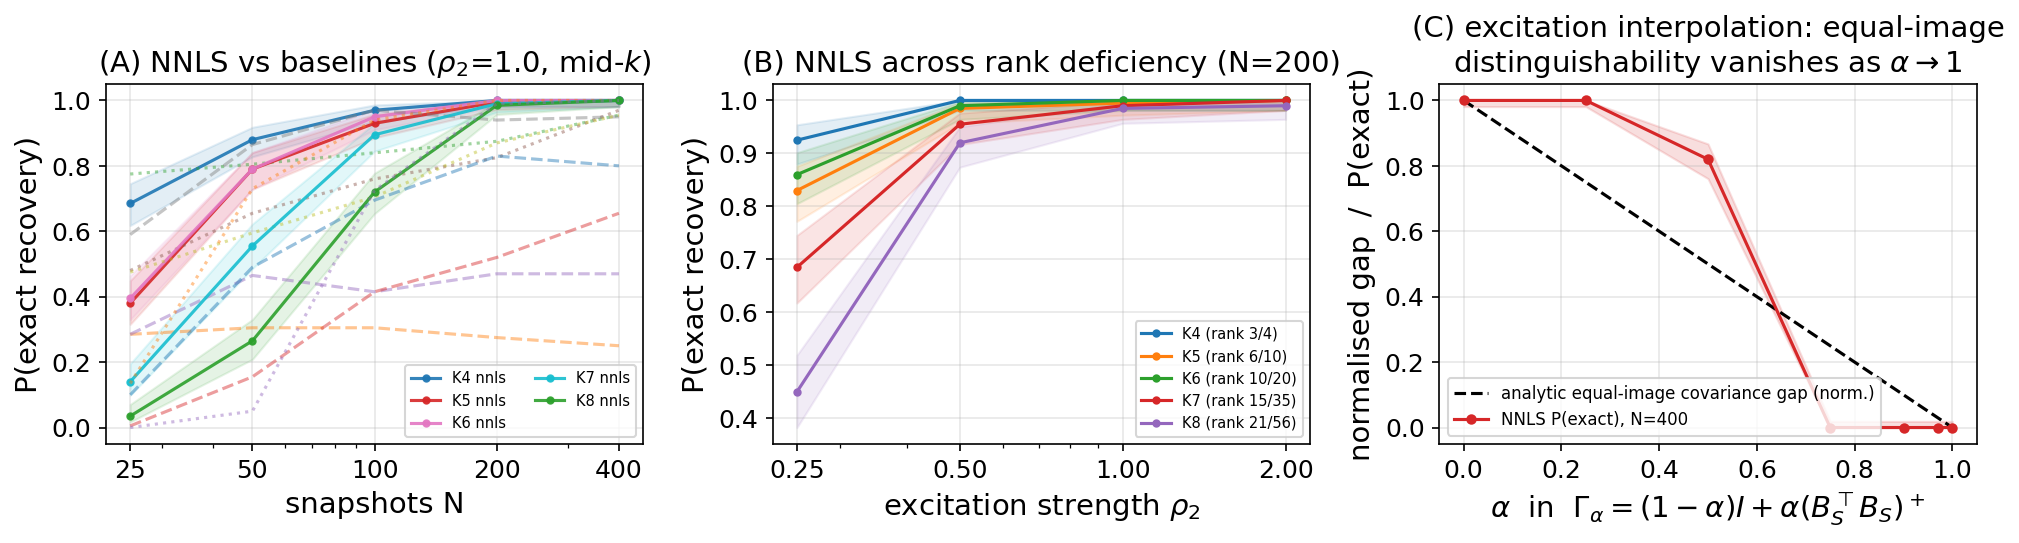
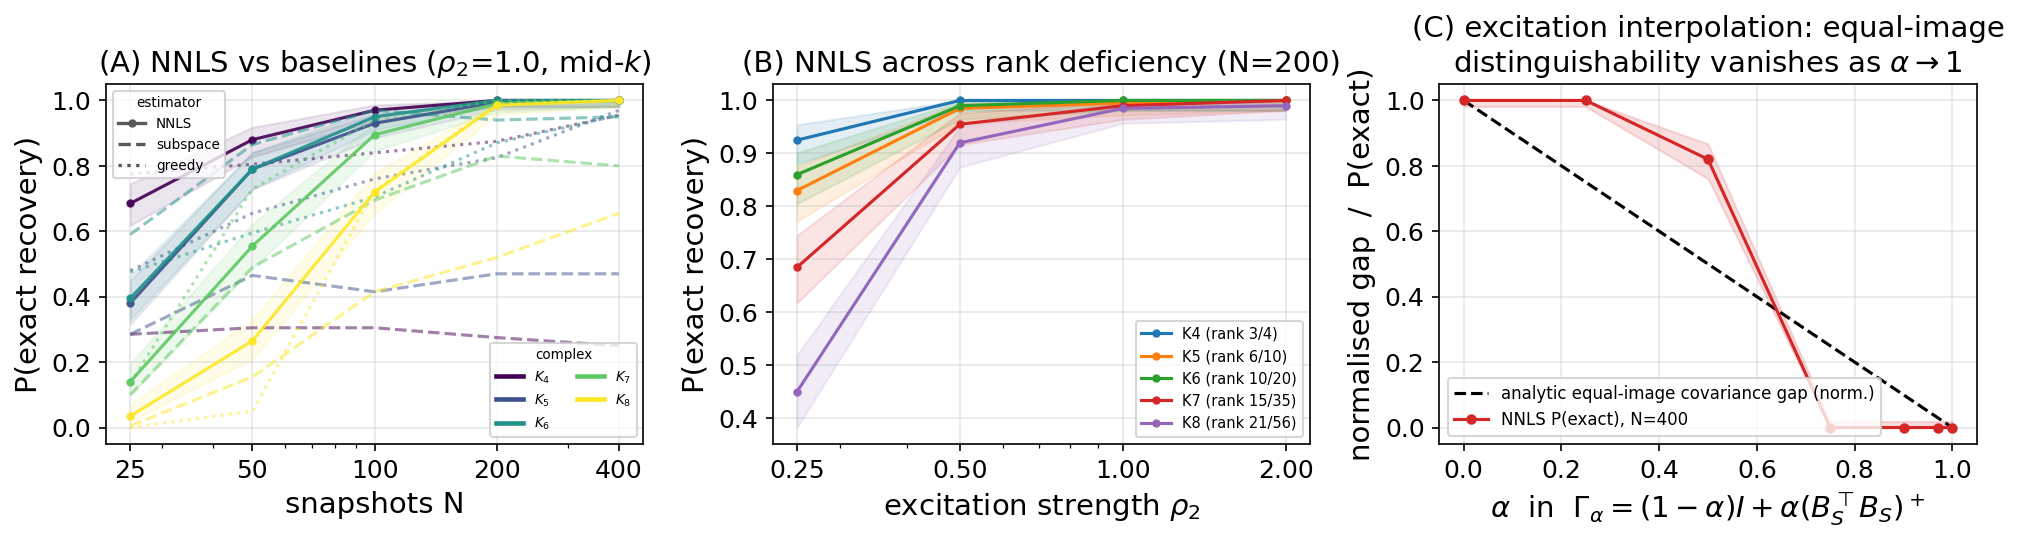
Round-8 Phase 6 / Round-7 H: CI, [gpu] extra, Fig1 dual legend, test-count + overclaim fixes
Infra:
- .github/workflows/ci.yml: CPU-only, torch-free CI (Python 3.11/3.12) —
  asserts the core imports without torch, compile-checks every src/experiment
  file, runs pytest -q. Guardrails, not proofs (stated in the workflow).
- pyproject.toml: [gpu] optional extra (torch, psutil); CPU core stays
  torch-free. requirements.lock records the server GPU stack
  (torch==2.8.0+cu128, RTX 4080 SUPER, driver 595.71.05).

Figures/wording:
- Fig1 (second_order.png) Panel A: proper DUAL legend — color = complex K_n
  (viridis), linestyle = estimator (NNLS/subspace/greedy). Was auto-cycling
  color with only NNLS labeled. Replotted from the committed JSON (no
  recompute).
- Test count 52 -> 58 in main.tex, supplement.tex, README.md.
- Softened two "every claim" overstatements in the supplement test-coverage
  paragraphs to "the enumerated claims" / "the core claims".

Both PDFs rebuilt (main 5pp, supplement 13pp, 0 undefined refs, no material
overfull). Manifest regenerated.

diff --git a/experiments/run_second_order.py b/experiments/run_second_order.py
@@ -236,6 +236,12 @@ def _plot(grid: dict, alpha: dict) -> None:
     N_fix = 200 if 200 in avail_N else avail_N[-1]
     rho_fix = 1.0 if 1.0 in avail_r else avail_r[-1]
 
+    import matplotlib.lines as mlines
+    # DUAL ENCODING: color = complex K_n, linestyle = estimator (so the legend
+    # factorizes cleanly instead of one entry per (K_n, estimator) pair).
+    kn_colors = {n: plt.cm.viridis((n - 4) / 4.0) for n in range(4, 9)}
+    est_styles = (("nnls", "-"), ("subspace", "--"), ("greedy", ":"))
+    est_names = {"nnls": "NNLS", "subspace": "subspace", "greedy": "greedy"}
     ax = axes[0]
     for n in range(4, 9):
         g = grid[f"K{n}"]
@@ -244,16 +250,16 @@ def _plot(grid: dict, alpha: dict) -> None:
                  and c["k"] == k_mid]
         cells.sort(key=lambda c: c["N"])
         Ns = [c["N"] for c in cells]
-        for est, ls in (("nnls", "-"), ("subspace", "--"), ("greedy", ":")):
+        col = kn_colors[n]
+        for est, ls in est_styles:
             y = [c[est]["p_exact"] for c in cells]
             lo = [c[est]["ci95"][0] for c in cells]
             hi = [c[est]["ci95"][1] for c in cells]
-            line, = ax.plot(Ns, y, ls, marker="o" if est == "nnls" else None,
-                            ms=3, label=f"K{n} {est}" if est == "nnls" else None,
-                            alpha=0.9 if est == "nnls" else 0.45)
+            ax.plot(Ns, y, ls, color=col,
+                    marker="o" if est == "nnls" else None, ms=3,
+                    alpha=0.9 if est == "nnls" else 0.5)
             if est == "nnls":
-                ax.fill_between(Ns, lo, hi, alpha=0.12,
-                                color=line.get_color())
+                ax.fill_between(Ns, lo, hi, alpha=0.10, color=col)
     ax.set_xscale("log")
     ax.set_xticks(avail_N)
     ax.xaxis.set_major_formatter(mticker.ScalarFormatter())
@@ -261,7 +267,16 @@ def _plot(grid: dict, alpha: dict) -> None:
     ax.set_xlabel("snapshots N")
     ax.set_ylabel("P(exact recovery)")
     ax.set_title(f"(A) NNLS vs baselines ($\\rho_2$={rho_fix}, mid-$k$)")
-    ax.legend(fontsize=7, ncol=2, loc="lower right")
+    color_handles = [mlines.Line2D([], [], color=kn_colors[n], lw=2.2,
+                                   label=f"$K_{n}$") for n in range(4, 9)]
+    style_handles = [mlines.Line2D([], [], color="0.35", ls=ls, lw=1.6,
+                                   marker="o" if est == "nnls" else None, ms=3,
+                                   label=est_names[est]) for est, ls in est_styles]
+    leg_color = ax.legend(handles=color_handles, fontsize=6.5, ncol=2,
+                          loc="lower right", title="complex", title_fontsize=6.5)
+    ax.add_artist(leg_color)
+    ax.legend(handles=style_handles, fontsize=6.5, loc="upper left",
+              title="estimator", title_fontsize=6.5)
     ax.grid(alpha=0.3)
 
     ax = axes[1]

diff --git a/paper/supplement.tex b/paper/supplement.tex
@@ -665,7 +665,7 @@ isolated-triangle exponent to $3\times10^{-5}$ relative at
 $\rho_2=10^{-5}$, and the Monte-Carlo error of the optimal test within the
 $e^{-NC_G}$ envelope with empirical exponent decreasing onto $C_G$; (vi)
 exact greedy covariance-atom recovery on rank-deficient $K_5$.
-\texttt{tests/test\_excitation.py} additionally checks every claim of the
+\texttt{tests/test\_excitation.py} additionally checks the core claims of the
 regime and estimator theory: weighted-diagonal identifiability and the
 $K_n$ unknown-noise ambiguity direction
 ($\sum_\tau\bm u_\tau\bm u_\tau^{\!\top}=n\bm I_r$); PSD matching for
@@ -860,12 +860,12 @@ All figures regenerate on CPU from fixed seeds via
   \texttt{run\_real\_cyclone.py} ($\approx$3\,min from the cached
   ERA5/IBTrACS files).
 \end{itemize}
-The test-suite (\texttt{pytest -q}, 52 tests) checks: the Fano bounds against
+The test-suite (\texttt{pytest -q}, 58 tests) checks: the Fano bounds against
 the empirical recovery boundary of the phase-transition experiment
 (\texttt{run\_phase\_transition.py}, repo/supplement; a converse must
 lower bound it), the closed form \eqref{eq:qform} against Monte-Carlo, the
-envelope of Lemma~\ref{lem:median}, the adaptive-vs-known recovery gap, every
-claim of Section~\ref{sec:dichotomy} (spark, exhaustive $K_4$ injectivity,
+envelope of Lemma~\ref{lem:median}, the adaptive-vs-known recovery gap, the
+enumerated claims of Section~\ref{sec:dichotomy} (spark, exhaustive $K_4$ injectivity,
 separation $16$, $C_G/\rho_2^2\to1$, Chernoff envelope, rank-deficient
 recovery), and the wind-to-edge-flow bridge (mesh full rank by Euler; a
 synthetic Rankine vortex localizes at the correct triangles with the correct

diff --git a/paper/main.tex b/paper/main.tex
@@ -66,7 +66,7 @@ interpolation under which equal-image distinguishability provably vanishes.
 On real data, the same curl statistic \emph{localizes} genuine unplanted
 rotational structure --- tropical cyclones in ERA5 winds --- against a
 same-field vorticity reference and an external IBTrACS archive. Code,
-data, and a 52-test guardrail suite (the quoted constants checked against Monte-Carlo) are released.
+data, and a 58-test guardrail suite (the quoted constants checked against Monte-Carlo) are released.
 \end{abstract}
 
 \begin{keywords}
@@ -535,7 +535,7 @@ across iterative adversarial-review cycles. Because IEEE/SPS policy does not
 permit AI-generated manuscript \emph{text}, the author will independently
 rewrite the manuscript before any formal submission and then disclose only
 the permitted uses (editing, code, visualization, and review feedback). All
-mathematical statements are checked by the released test suite (52 tests,
+mathematical statements are checked by the released test suite (58 tests,
 including exhaustive and Monte-Carlo checks for every quoted constant), and
 the full revision history is preserved unaltered in the public repository ---
 git history is deliberately \emph{not} rewritten to obscure AI use. The

diff --git a/README.md b/README.md
@@ -617,7 +617,7 @@ topo-flow-limits/
 │   ├── run_plugin.py             supplement S3 figure + plugin.json
 │   └── run_all.py                one-click: all of the above from fixed seeds
 │
-├── tests/                    52 tests — the theorems' guardrails (see §8)
+├── tests/                    58 tests — the theorems' guardrails (see §8)
 │   ├── test_hodge.py
 │   ├── test_theory_vs_sim.py
 │   ├── test_excitation.py    the three excitation regimes + NNLS guardrails (15 tests:
@@ -682,7 +682,7 @@ cd topo-flow-limits
 uv venv --python 3.11 .venv
 uv pip install --python .venv\Scripts\python.exe numpy scipy networkx cvxpy matplotlib pandas pytest
 
-# 1) validate all theory against Monte-Carlo (52 tests; ~3-5 min)
+# 1) validate all theory against Monte-Carlo (58 tests; ~3-5 min)
 .\.venv\Scripts\python.exe -m pytest -q
 
 # 2) regenerate every figure and metric (~30-45 min, 8 experiments)